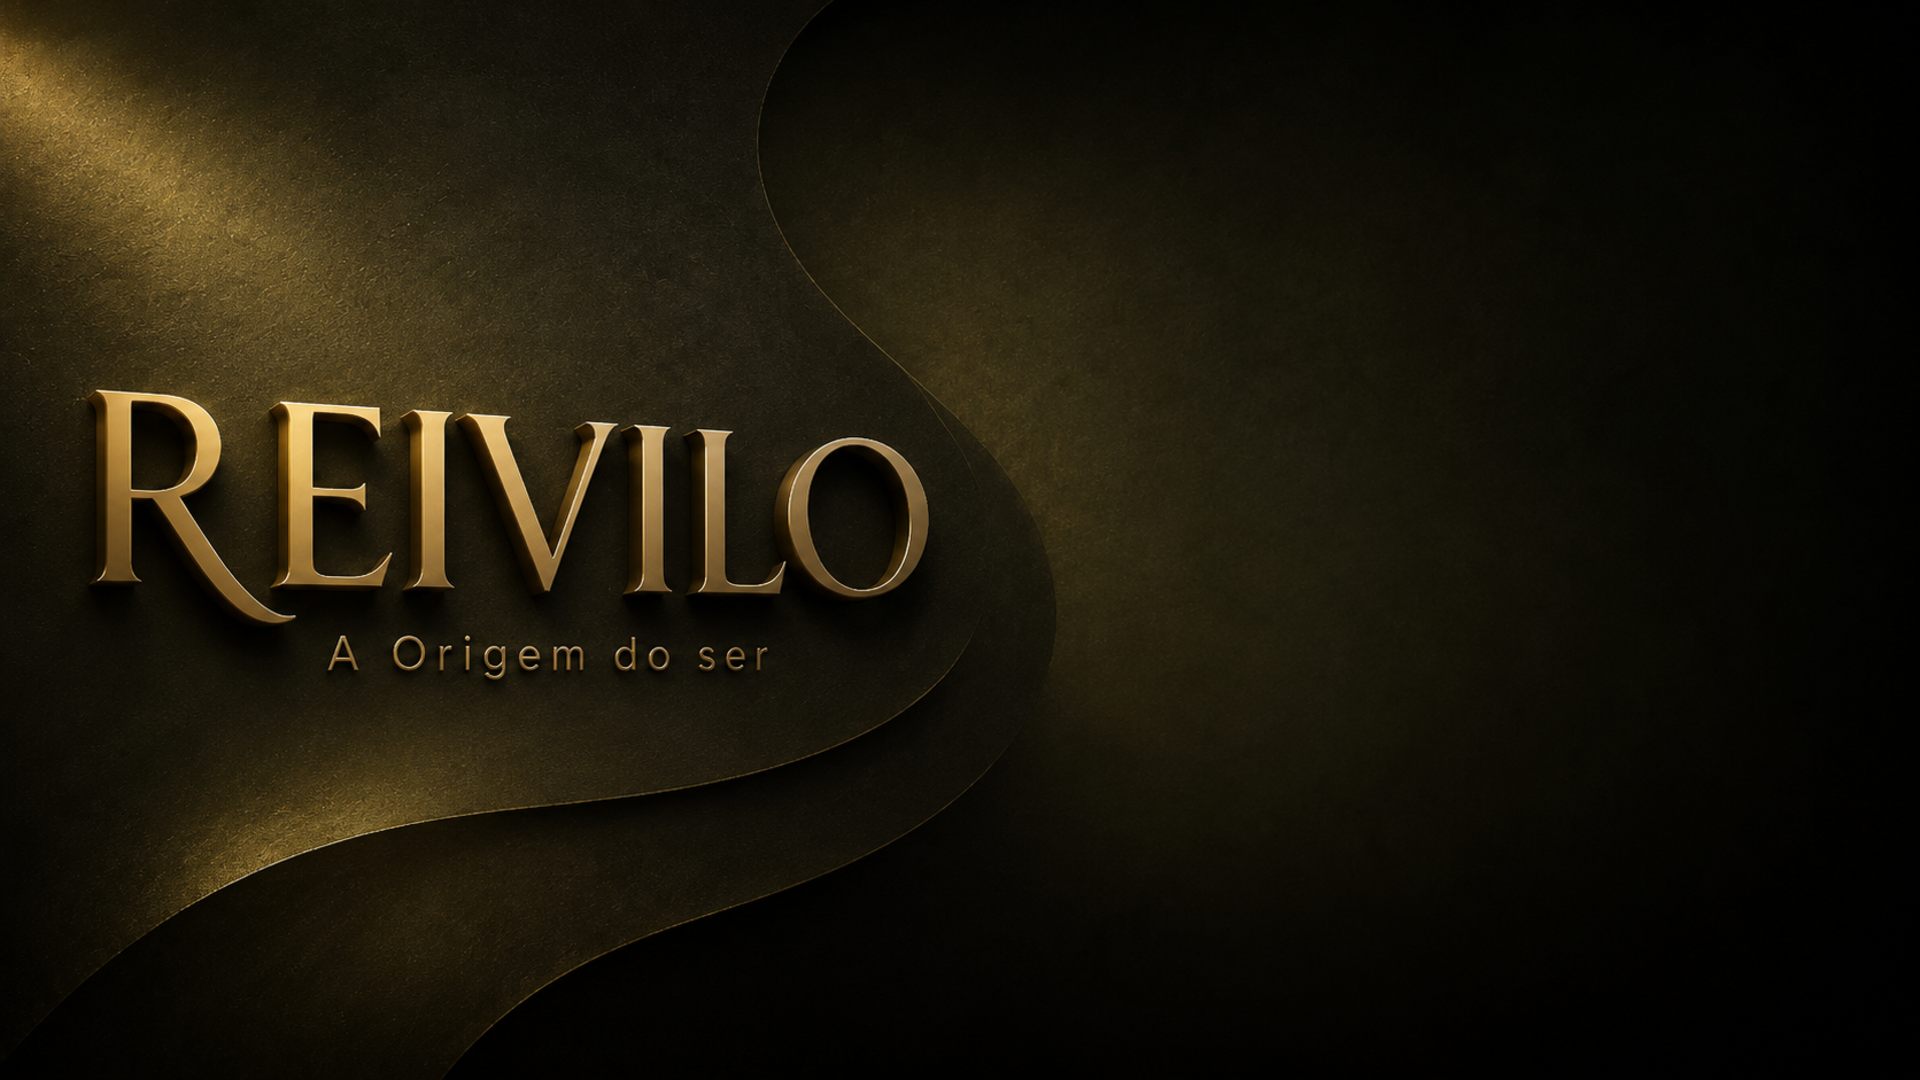
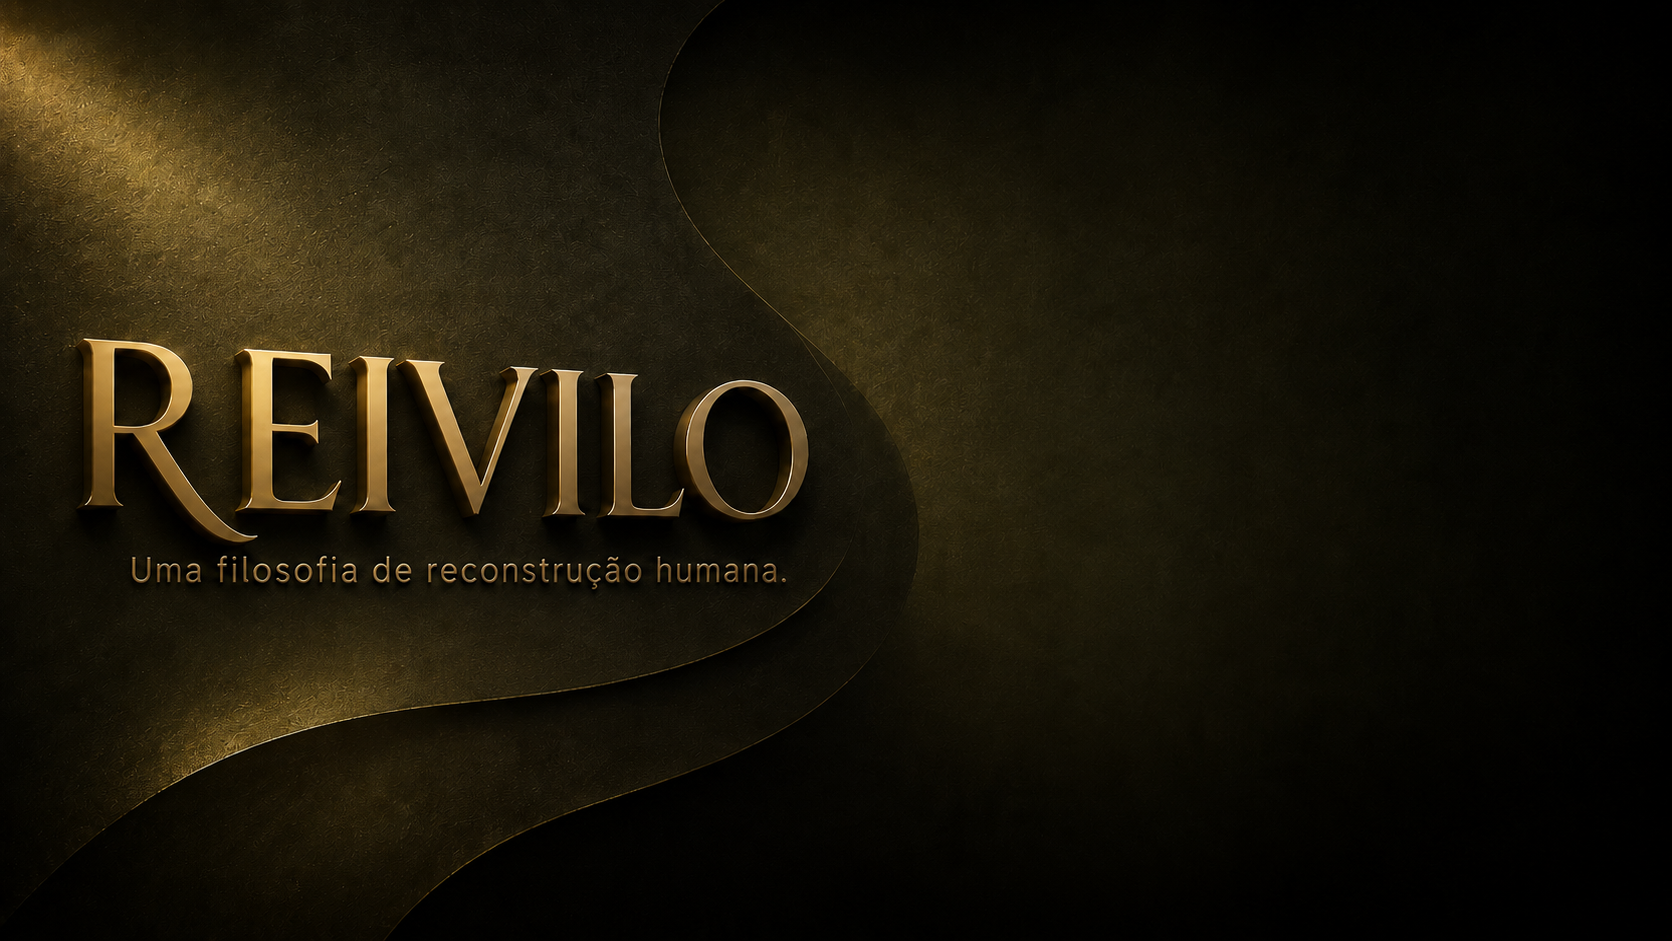
Add files via upload

diff --git a/app/static/css/style.css b/app/static/css/style.css
@@ -908,3 +908,67 @@ body{background:#070806;color:var(--text)}
   background:rgba(255,255,255,.02)!important;
   color:#c7a253!important;
 }
+
+
+/* Ajustes extras solicitados - CTA, hero mobile e novo fundo */
+.hero .micro{
+  text-transform:none;
+  letter-spacing:.08em;
+  font-size:11px;
+  line-height:1.8;
+  max-width:560px;
+}
+
+@media(max-width:900px){
+  .hero{
+    min-height:980px;
+    align-items:flex-end;
+  }
+  .hero-bg{
+    background-image:
+      linear-gradient(180deg,rgba(5,6,4,.02) 0%,rgba(5,6,4,.10) 28%,rgba(5,6,4,.48) 54%,rgba(5,6,4,.88) 100%),
+      url('../img/hero-bg.png');
+    background-size:cover;
+    background-position:20% top;
+    transform:none;
+  }
+  .hero-content{
+    justify-content:center!important;
+    align-items:flex-end!important;
+    padding-top:340px!important;
+    padding-bottom:64px;
+  }
+  .hero-content.container{
+    width:min(580px,calc(100% - 28px))!important;
+  }
+  .hero-copy{
+    width:min(520px,100%);
+    margin-right:0!important;
+    margin-left:0!important;
+    text-align:center!important;
+    padding:22px 18px 0;
+    border-radius:28px 28px 0 0;
+    background:linear-gradient(180deg,rgba(8,9,6,.18) 0%,rgba(8,9,6,.54) 20%,rgba(8,9,6,.92) 100%);
+    backdrop-filter:blur(2px);
+  }
+  .hero h1{
+    margin-inline:auto;
+    font-size:clamp(44px,12.4vw,60px)!important;
+    line-height:.95;
+    max-width:480px;
+  }
+  .hero .italic{
+    margin:18px auto 24px;
+    font-size:clamp(20px,5vw,28px);
+  }
+  .hero .premium-button{
+    margin-inline:auto!important;
+  }
+  .hero .micro{
+    margin:20px auto 0!important;
+    max-width:460px;
+    font-size:10px;
+    line-height:1.7;
+    letter-spacing:.04em;
+  }
+}

diff --git a/app/templates/index.html b/app/templates/index.html
@@ -17,7 +17,7 @@
     <nav class="nav-inner container">
       <div class="nav-left"><a href="#sobre">Sobre</a><a href="#mentoria">Mentorias</a></div>
       <a class="logo" href="#inicio"><img src="{{ url_for('static', filename='img/brand-logo.png') }}" alt="Mari Olivier"></a>
-      <div class="nav-right"><a class="premium-button premium-nav" href="#contato"><span class="premium-dots" aria-hidden="true"></span><i class="bi bi-stars premium-icon" aria-hidden="true"></i><span class="premium-text">Quero fazer parte da REIVILO</span></a></div>
+      <div class="nav-right"><a class="premium-button premium-nav" href="#contato"><span class="premium-dots" aria-hidden="true"></span><i class="bi bi-stars premium-icon" aria-hidden="true"></i><span class="premium-text">Solicitar participação</span></a></div>
       <button class="menu" aria-label="Abrir menu" aria-expanded="false" aria-controls="mobile-menu">☰</button>
     </nav>
     <div class="mobile-menu-backdrop" aria-hidden="true"></div>
@@ -25,7 +25,7 @@
       <a href="#sobre">Sobre</a>
       <a href="#mentoria">Mentorias</a>
       
-      <a class="premium-button premium-nav" href="#contato"><span class="premium-dots" aria-hidden="true"></span><i class="bi bi-stars premium-icon" aria-hidden="true"></i><span class="premium-text">Quero fazer parte da REIVILO</span></a>
+      <a class="premium-button premium-nav" href="#contato"><span class="premium-dots" aria-hidden="true"></span><i class="bi bi-stars premium-icon" aria-hidden="true"></i><span class="premium-text">Solicitar participação</span></a>
     </aside>
   </header>
 
@@ -36,8 +36,8 @@
         <div class="hero-copy">
           <h1>Seu próximo nível<br class="desktop-title-break"> começa por uma<br class="desktop-title-break"> nova estrutura.</h1>
           <p class="italic">Você tem o poder de mudar tudo.</p>
-          <a class="premium-button premium-hero" href="#contato"><span class="premium-dots" aria-hidden="true"></span><i class="bi bi-stars premium-icon" aria-hidden="true"></i><span class="premium-text">Quero fazer parte da REIVILO</span></a>
-          <p class="micro">Há mais de 15 anos conduzindo jornadas que unem desenvolvimento humano, comunicação, imagem, comportamento e psicanálise.</p>
+          <a class="premium-button premium-hero" href="#contato"><span class="premium-dots" aria-hidden="true"></span><i class="bi bi-stars premium-icon" aria-hidden="true"></i><span class="premium-text">Solicitar participação</span></a>
+          <p class="micro">Mais de quinze anos desenvolvendo pessoas, fortalecendo lideranças e conduzindo processos que unem identidade, comunicação, comportamento e posicionamento humano.</p>
         </div>
       </div>
       <a class="scroll-cue" href="#apresentacao">⌄</a>
@@ -151,7 +151,6 @@
         <h2 class="cta-message">Mais do que desenvolver habilidades,<br>
           desenvolvemos pessoas capazes de viver, liderar <br>
           e prosperar com autenticidade, consciência e significado.</h2>
-        <p>Por Mari Olivier</p>
         <div class="cta-actions single-cta"><a class="premium-button" href="https://wa.me/5500000000000?text=Ol%C3%A1%2C%20preciso%20viver%20isso"><span class="premium-dots" aria-hidden="true"></span><i class="bi bi-stars premium-icon" aria-hidden="true"></i><span class="premium-text">Preciso viver isso</span></a></div>
       </div>
     </section>